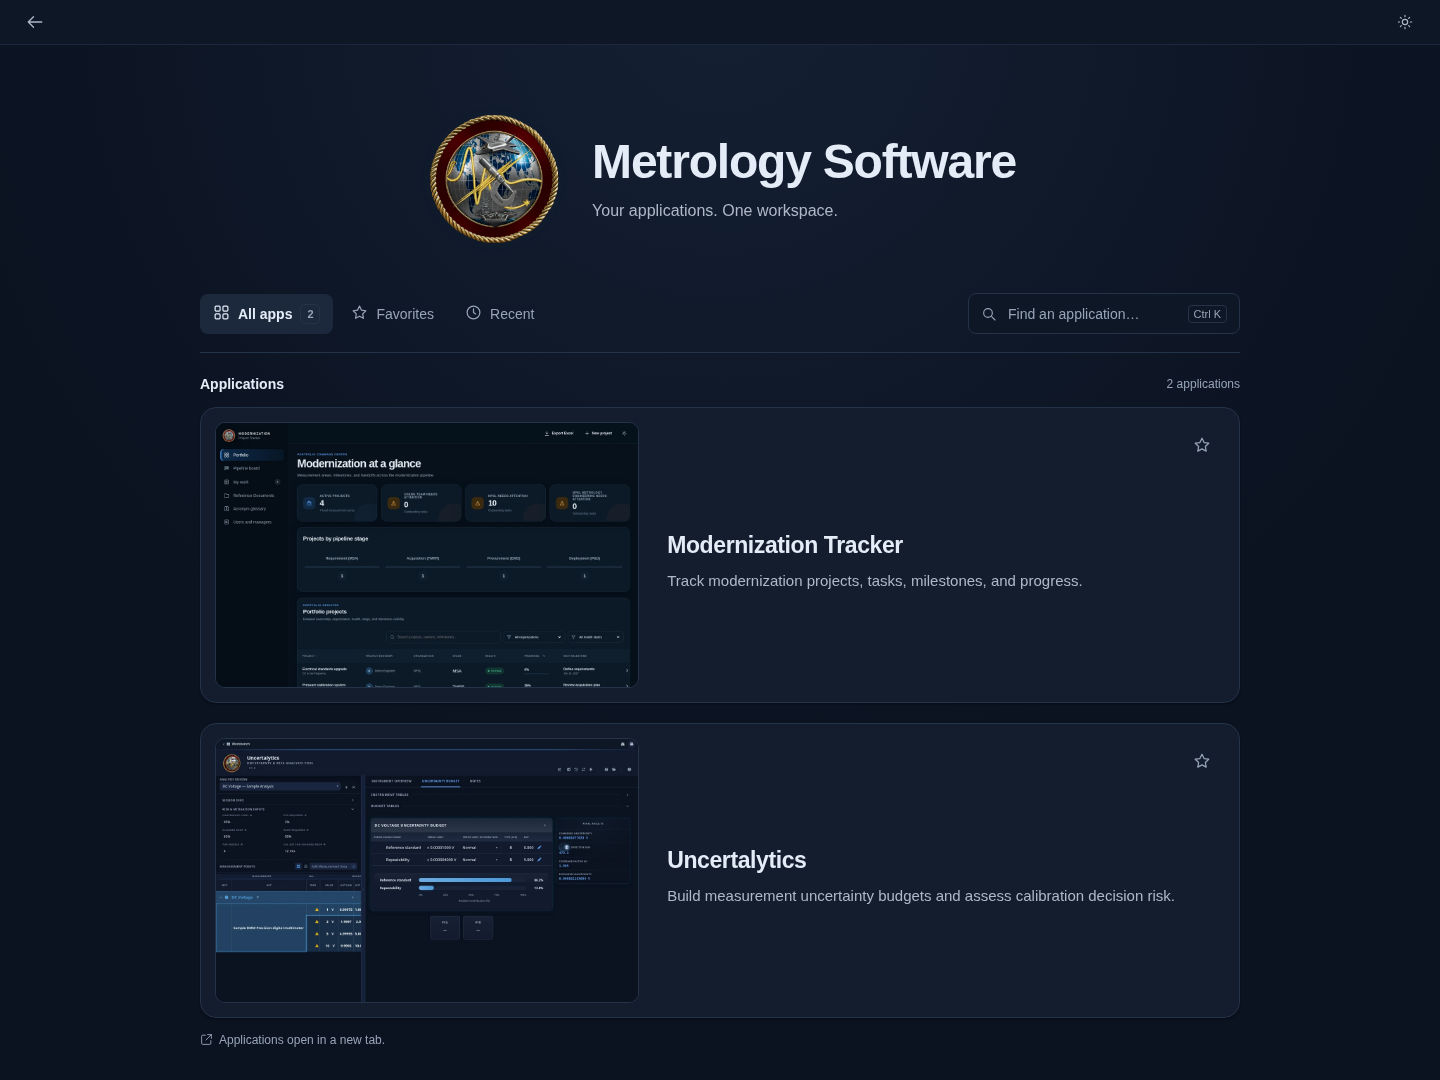
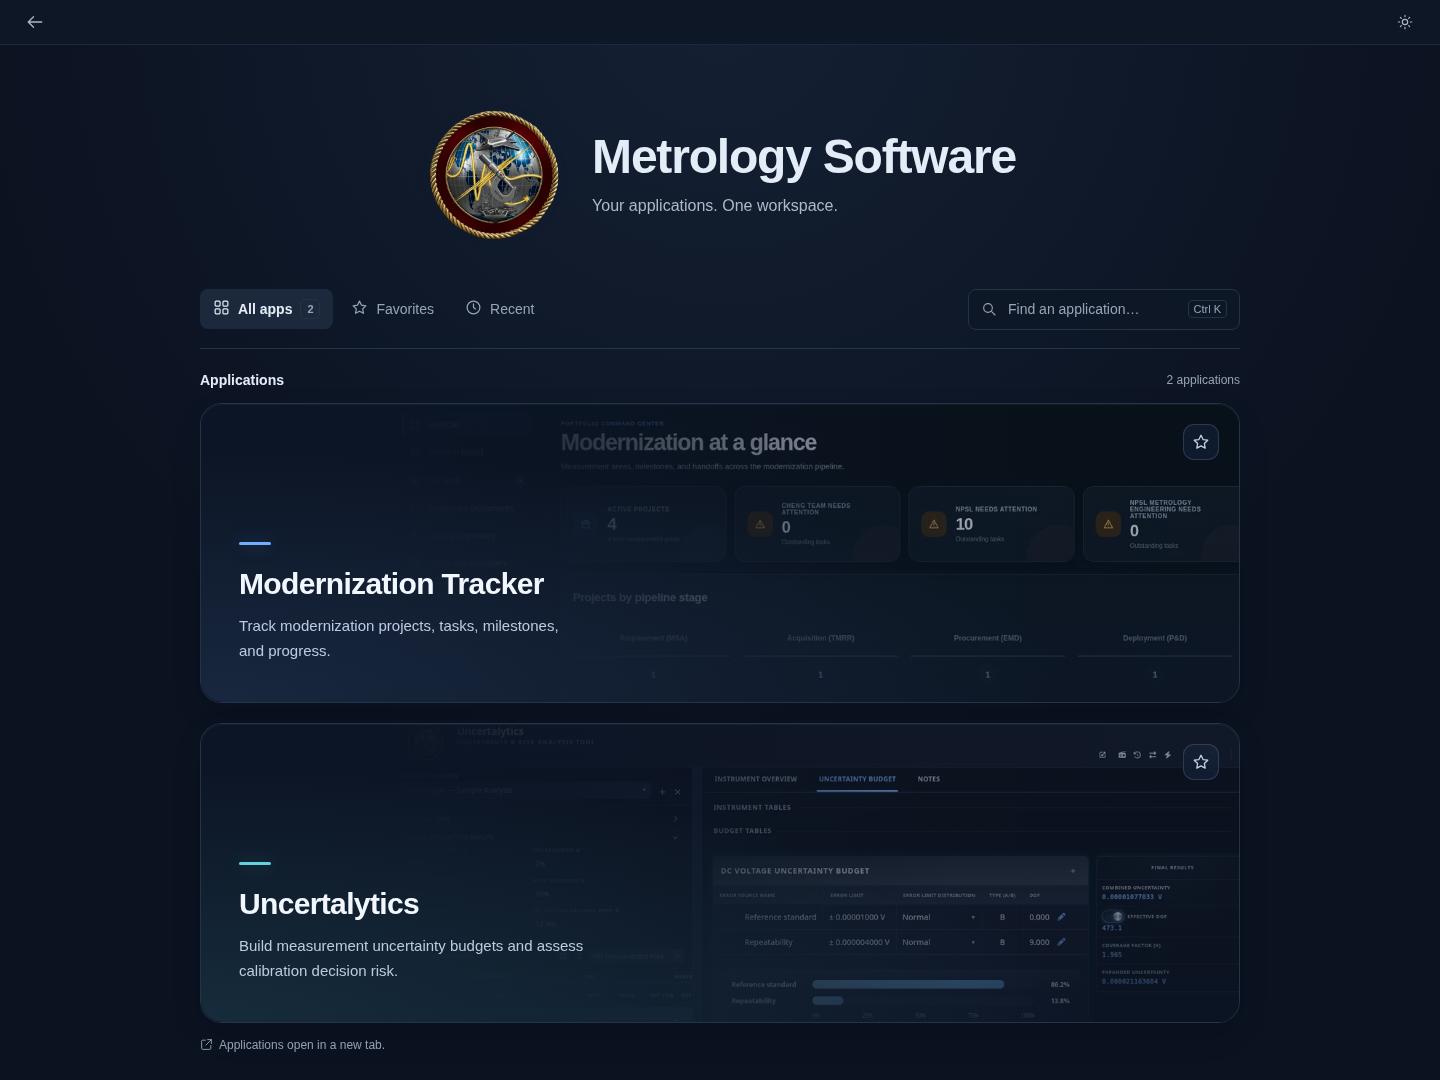
Style application screenshots as responsive full-card backdrops

diff --git a/index.html b/index.html
@@ -21,20 +21,37 @@
 .card-link::after{content:"";position:absolute;inset:0;border-radius:16px;z-index:1}.card-link:focus-visible{outline:none}.card-link:focus-visible::after{outline:2px solid var(--primary);outline-offset:4px}.favorite{z-index:2}.fallback-link{display:block;margin:15px 0;padding:20px;border:1px solid var(--border);border-radius:16px;background:var(--surface)}
 .back-link{display:inline-flex;align-items:center;justify-content:center;width:34px;height:34px;border-radius:7px;color:var(--muted);transition:background .18s,color .18s}.back-link:hover{background:var(--icon-bg);color:var(--text)}.back-link svg{width:18px;height:18px}
 
-/* Real application captures, embedded for single-file SharePoint hosting. */
-.app-card{padding:14px;gap:28px;align-items:center}
-.app-preview{flex:0 0 42%;aspect-ratio:8/5;overflow:hidden;border:1px solid var(--border);border-radius:10px;background:var(--background)}
-.app-preview img{display:block;width:100%;height:100%;object-fit:cover;object-position:top;transition:transform .3s ease}
+/* Full-bleed application backdrops. Images remain embedded and theme-aware. */
+.app-card{--card-ink:#0c1525;--card-rgb:12,21,37;--accent:112,175,255;isolation:isolate;overflow:hidden;display:flex;align-items:flex-end;min-height:300px;padding:38px;gap:0;border-radius:22px;background:var(--card-ink);border-color:rgba(149,183,226,.19);box-shadow:0 12px 32px #00000018;transition:transform .35s ease,border-color .35s ease,box-shadow .35s ease}
+.app-card:nth-child(2){--accent:98,211,222}
+.app-preview{position:absolute;inset:0;z-index:-3;overflow:hidden;pointer-events:none;background:var(--card-ink)}
+.app-preview img{position:absolute;right:-2%;top:0;display:block;width:82%;height:100%;object-fit:cover;object-position:center 12%;opacity:.88;transform:scale(1.025);transform-origin:75% 45%;filter:saturate(.82);transition:transform .7s cubic-bezier(.2,.7,.2,1),opacity .5s ease}
 .app-preview .preview-light{display:none}
 :root[data-theme="light"] .app-preview .preview-dark{display:none}
 :root[data-theme="light"] .app-preview .preview-light{display:block}
-.app-card:hover .app-preview img{transform:scale(1.025)}
-.app-content{padding:20px 24px 20px 0}
-.app-top{min-height:10px}
-.app-card h3{margin-right:8px}
-@media(max-width:800px){.app-card{gap:22px}.app-preview{flex-basis:43%}.app-content{padding-right:14px}.app-card h3{font-size:21px}}
-@media(max-width:620px){.app-card{padding:12px;display:block}.app-preview{width:100%;aspect-ratio:8/5}.app-content{padding:20px 10px 14px}.app-top{min-height:0}.app-card h3{padding-right:32px}.favorite{top:20px;right:20px;background:var(--surface);border-color:var(--border)}}
-@media(prefers-reduced-motion:reduce){.app-preview img{transition:none}.app-card:hover .app-preview img{transform:none}}
+.app-card::before{content:"";position:absolute;inset:0;z-index:-2;pointer-events:none;background:linear-gradient(90deg,var(--card-ink) 0%,rgba(var(--card-rgb),.97) 22%,rgba(var(--card-rgb),.80) 40%,rgba(var(--card-rgb),.14) 73%,rgba(var(--card-rgb),.06)),linear-gradient(0deg,rgba(var(--card-rgb),.68),transparent 76%)}
+.app-card::after{content:"";position:absolute;inset:0;z-index:-1;pointer-events:none;border-radius:inherit;box-shadow:inset 0 1px 0 #ffffff0c;background:radial-gradient(ellipse at 0% 100%,rgba(var(--accent),.12),transparent 60%);transition:opacity .35s ease}
+.app-content{width:100%;padding:0;min-width:0}
+.app-top{min-height:0}
+.app-card h3{font-size:clamp(24px,2.6vw,30px);line-height:1.15;letter-spacing:-.65px;margin:0 40px 13px 0;color:#f2f6ff;max-width:430px;text-wrap:balance}
+.app-card h3::before{content:"";display:block;width:32px;height:3px;border-radius:3px;margin-bottom:22px;background:rgb(var(--accent));box-shadow:0 0 18px rgba(var(--accent),.32);transition:width .35s ease}
+.app-description{max-width:370px;font-size:15px;line-height:1.65;color:#bccbdf;text-wrap:pretty}
+.app-card .favorite{top:20px;right:20px;width:36px;height:36px;border-radius:11px;color:#c5d4e8;background:#122036b3;border:1px solid #b9d7ff29;backdrop-filter:blur(12px);-webkit-backdrop-filter:blur(12px)}
+.app-card .favorite:hover,.app-card .favorite[aria-pressed=true]{background:#253c5be6;color:#a8cfff;border-color:#a8cfff66}
+.app-card .card-link::after{border-radius:22px}
+.app-card:focus-within{border-color:rgba(var(--accent),.65)}
+.app-card .card-link:focus-visible::after{outline:2px solid rgb(var(--accent));outline-offset:-4px}
+@media(hover:hover) and (pointer:fine){.app-card:hover{transform:translateY(-4px);border-color:rgba(var(--accent),.45);box-shadow:0 18px 44px #00000026,0 0 30px rgba(var(--accent),.06)}.app-card:hover .app-preview img{transform:scale(1.07);opacity:1}.app-card:hover h3::before{width:52px}}
+:root[data-theme="light"] .app-card{--card-ink:#f4f7fc;--card-rgb:244,247,252;--accent:43,101,190;border-color:#b8cce46b;box-shadow:0 8px 28px #18345909}
+:root[data-theme="light"] .app-card:nth-child(2){--accent:16,129,145}
+:root[data-theme="light"] .app-card h3{color:#172a43}
+:root[data-theme="light"] .app-description{color:#435875}
+:root[data-theme="light"] .app-card .favorite{background:#ffffffb8;color:#536d90;border-color:#92adcd55}
+:root[data-theme="light"] .app-card .favorite:hover,:root[data-theme="light"] .app-card .favorite[aria-pressed=true]{color:#225fae;background:#e4eeffd9;border-color:#80a9df}
+@media(max-width:800px){.app-card{min-height:290px;padding:30px}.app-preview img{width:100%;right:-14%}.app-description{max-width:310px}}
+@media(max-width:620px){.app-card{min-height:350px;padding:26px 24px;display:flex;border-radius:19px}.app-preview img{inset:0;width:100%;height:100%;object-position:62% top;opacity:.78}.app-card::before{background:linear-gradient(0deg,var(--card-ink) 0%,rgba(var(--card-rgb),.98) 23%,rgba(var(--card-rgb),.83) 42%,rgba(var(--card-rgb),.12) 80%,rgba(var(--card-rgb),.06))}.app-card::after{background:radial-gradient(ellipse at 0% 100%,rgba(var(--accent),.1),transparent 65%)}.app-card h3{font-size:25px;margin:0 0 11px;max-width:100%}.app-card h3::before{margin-bottom:17px}.app-description{font-size:14px;max-width:100%}.app-card .favorite{top:15px;right:15px}.app-card .card-link::after{border-radius:19px}}
+@media(max-width:360px){.app-card{padding:23px 20px;min-height:335px}.app-card h3{font-size:23px}}
+@media(prefers-reduced-motion:reduce){.app-card,.app-preview img,.app-card h3::before{transition:none}.app-card:hover,.app-card:hover .app-preview img{transform:none}}
 </style>
 
 </head>

diff --git a/README.md b/README.md
@@ -32,3 +32,5 @@ Checked in Chromium: both configured URLs, whole-card pointer and keyboard navig
 ## App thumbnails
 
 Real local captures of Modernization Tracker and the Uncertalytics module in Metrology Workbench use illustrative sample data. Light and dark WebP previews are embedded in `index.html`; no image hosting is required. See `THUMBNAILS.txt` for capture details.
+
+Application screenshots form full-card backdrops with responsive directional gradients, theme-aware colors, subtle hover motion, and reduced-motion support. Cards retain their native links and independent favorite controls.
